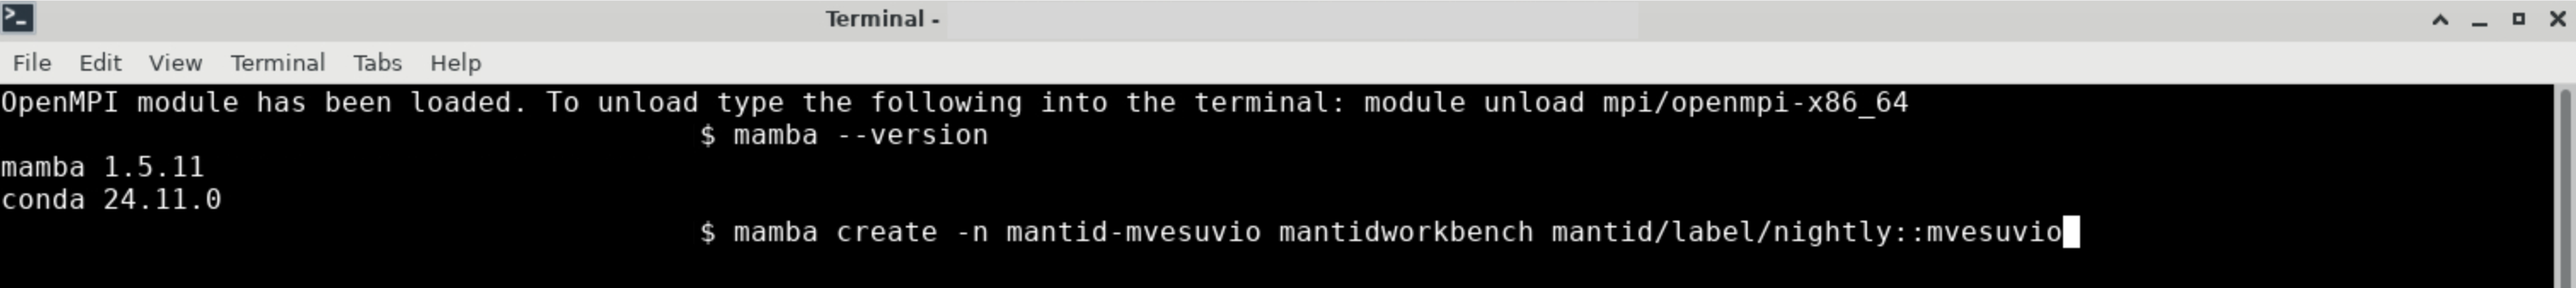
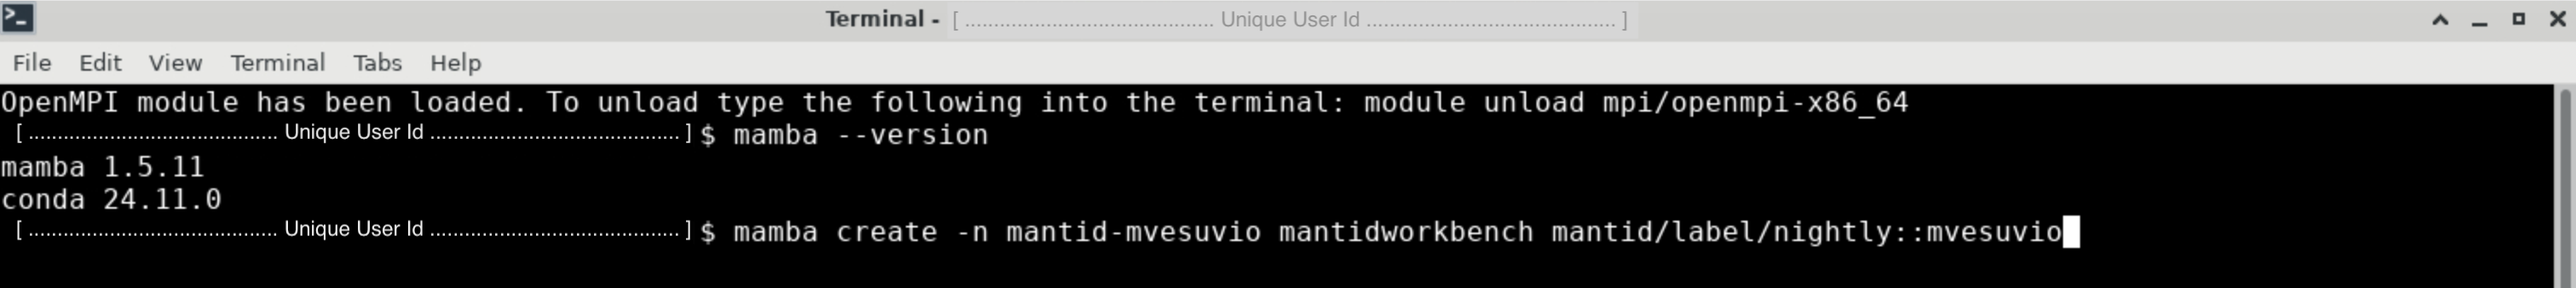
updated all sections

Changed region(s): [[0.0, 0.7692, 0.2799, 0.8284], [0.0, 0.4438, 0.2799, 0.503], [0.4664, 0.0296, 0.5286, 0.0888]]

diff --git a/README.md b/README.md
@@ -19,18 +19,18 @@ Once you have a working version of Mantid, go to the `IPython` tab on the bottom
 
 **If you're on ADA or Linux:**
 
-Run `mamba install mantid/label/nightly::mvesuvio` followed by `!mvesuvio version` as shown in the image below:
+Run `mamba install mantid/label/nightly::mvesuvio` followed by `!mvesuvio version` in the `IPython` tab:
 
 ![linux ipython install](images/linux_ipython_install.png)
 
 > WARNING: This command alone may not create the **.mvesuvio** folder in the home directory. This needs 
-> to be forced by running the command `!mvesuvio config` in the IPython editor. The command will 
+> to be forced by running the command `!mvesuvio config` in the `IPython` editor. The command will 
 > output the locations of *analysis_inputs.py* and *ip_files*.
 > ![config output](<images/config_output.png>)
 
 **If you're on Windows:**
 
-Run `pip install mvesuvio` followed by `pip show mvesuvio` as shown in the image below:
+Run `pip install mvesuvio` followed by `pip show mvesuvio` in the `IPython` tab:
 
 ![windows ipython install](images/windows_ipython_install.png)
 
@@ -50,12 +50,12 @@ If you see some output then the package is successfully installed and setup!
 
 ### Installing mantid and mvesuvio using conda/mamba (If the first option failed)
 
-If the previous installation attempt was unsuccessful, then you'll have to use Mantid inside a *conda/mamba* environment. This is the official recommended way of using the mantid with the mvesuvio package.
+If the previous installation attempt was unsuccessful, then you'll have to use Mantid inside a *conda/mamba* environment. This is the official recommended way of using the mantid with the `mvesuvio` package.
 
 To install `mamba`, follow the steps at:
 https://mamba.readthedocs.io/en/latest/installation/mamba-installation.html
 
-Open a terminal (Applications → System → Terminal) on ADA:
+Open a terminal (Applications → System → Terminal) on **ADA**:
 
 ![ada menu](images/ada_menu.png)
 
@@ -83,14 +83,14 @@ You can now start Mantid with `mvesuvio` already installed by typing the followi
 
 ## Updating versions
 
-If you want to check the current version of the package, go to the IPython editor in Mantid and type:
+If you want to check the current version of the package, go to the `IPython` editor in Mantid and type:
 
 `!mvesuvio version`
 
-The easiest way to update the mvesuvio package is to uninstall the current package in your environment and install it again.
+The easiest way to update the `mvesuvio` package is to uninstall the current package in your environment and install it again.
 You'll need to use `pip`, `conda` or `mamba` depending on which one you used to install the package.
 
-So for example if you did `mamba install mvesuvio` then the uninstall command is:
+So for example if you did `mamba install mvesuvio` then the **uninstall** command is:
 
 `mamba uninstall mvesuvio`
 
@@ -105,7 +105,7 @@ If you're looking for a specific version, you can do:
 
 `mamba install mvesuvio=1.0`
 
-Which will install version 1.0 of the package.
+Which will install version *1.0* of the package.
 
 ### Quickstart (Running your first analysis)
 
@@ -123,13 +123,14 @@ Once you have located the `.mvesuvio` folder, open Mantid workbench and inside i
 This script represents the basics for passing in the inputs of the analysis routine.
 Click the run button on the workbench to start the execution of the script.
 (Check that you have the archive search enabled, the facility is set to ISIS and the instrument set to VESUVIO, otherwise the Vesuvio runs might not be found).
-This scipt is an example of a well-behaved sample and it should run without issues.
+This script is an example of a well-behaved sample and it should run without issues.
 
-If the run was successfull, you will notice that a new folder was created inside `.mvesuvio` containing all sorts of outputs for this script.
+If the run was successful, you will notice that a new folder was created inside `.mvesuvio` containing all sorts of outputs for this script.
 
-**IMPORTANT:To run a new sample with different inputs, you should *copy* the example script `analysis_inputs.py` and place it in *any* folder of your choice outside `.mvesuvio`. 
-For providing the instrument parameters files, place them inside `.mvesuvio/ip_files/`.**
-(You can change the directory of the instrument files too, consult next section).
+> IMPORTANT: To run a new sample with different inputs, you should *copy* the example script `analysis_inputs.py` and place 
+> it in *any* folder of your choice outside `.mvesuvio`. 
+> For providing the instrument parameters files, place them inside `.mvesuvio/ip_files/`.
+> (You can change the directory of the instrument files too, consult next section).
 
 For a more detailed explanation on what the inputs in the `analysis_inputs.py` mean, read [USERGUIDE.md](./USERGUIDE.md)
 
@@ -139,14 +140,14 @@ A very useful command is:
 
 `mvesuvio version`
 
-Which returns the version of mvesuvio that you have currently installed.
-If you're running a Python script or have access to a Python interpreter (like the IPython tab in Mantid), you can do:
+Which returns the version of `mvesuvio` that you have currently installed.
+If you're running a Python script or have access to a Python interpreter (like the `IPython` tab in Mantid), you can do:
 
 ```
 import mvesuvio
 mvesuvio.version()
 ```
-In a Python interpreter like the IPython tab in Mantid, you can also run terminal commands by starting the command with `!`:
+In a Python interpreter like the `IPython` tab in Mantid, you can also run terminal commands by starting the command with `!`:
 
 `!mvesuvio version`
 
@@ -156,13 +157,13 @@ Or to see the current configuration:
 
 
 ## Advanced Usage (CLI)
-If you're using a conda environment and have installed Mantid and mvesuvio with conda/mamba, then you might be interested in the CLI options of mvesuvio.
+If you're using a *conda* environment and have installed Mantid and `mvesuvio` with *conda/mamba*, then you might be interested in the CLI options of `mvesuvio`.
 With your environment activated you can type in the terminal:
 
 `mvesuvio -h`
 
-And this will list all of the currently available commands.
-Currently the commands that are stable are `config`, `run` and `version`. All other commands are available but are still in development.
+And this will list all available commands.
+Currently, the commands that are stable are `config`, `run` and `version`. All other commands are available but are still in development.
 
 #### mvesuvio config
 
@@ -187,13 +188,13 @@ Usage example:
 ### Python API
 
 The commands available in the CLI can be triggered from Python by calling the method with the same name.
-So for example to set the configuration from a Python script (or from IPython tab):
+So for example to set the configuration from a Python script (or from `IPython` tab):
 
 ```
 import mvesuvio
 mv.config(analysis_inputs='C:\Vesuvio\experiment\inputs.py', ip_folder='C:\IPFolder')
 ```
-In fact, this functionality is what you see at the end of the `analysis_inputs.py` file, which sets the inpucts script to the currently openned script:
+In fact, this functionality is what you see at the end of the `analysis_inputs.py` file, which sets the inputs script to the currently opened script:
 
 ```
 import mvesuvio
